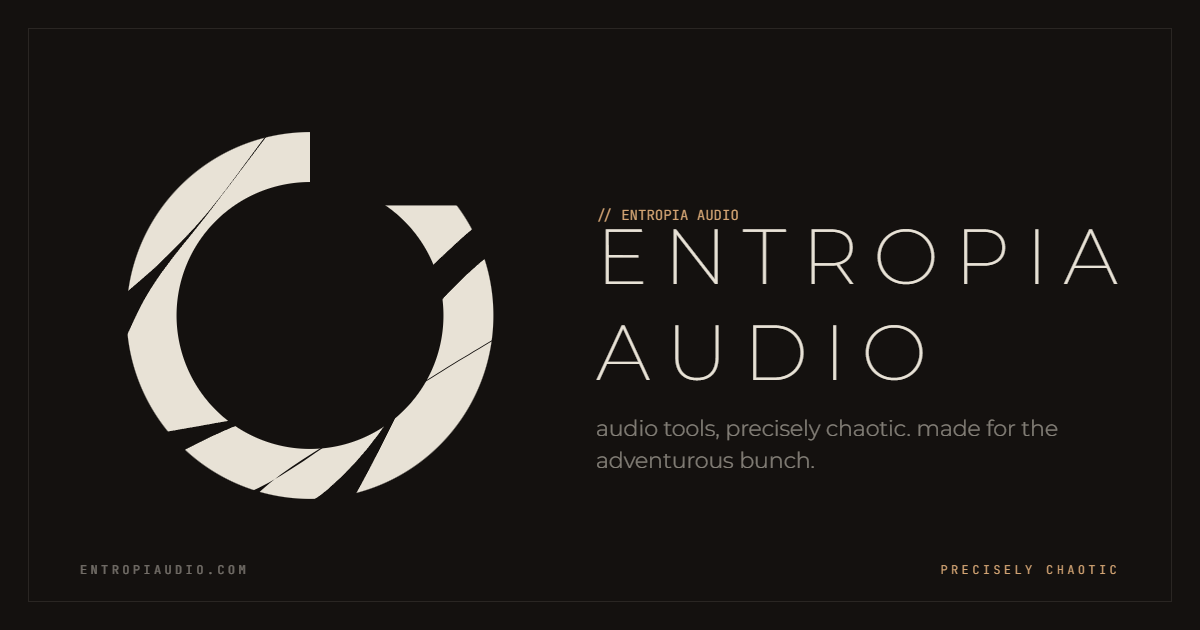
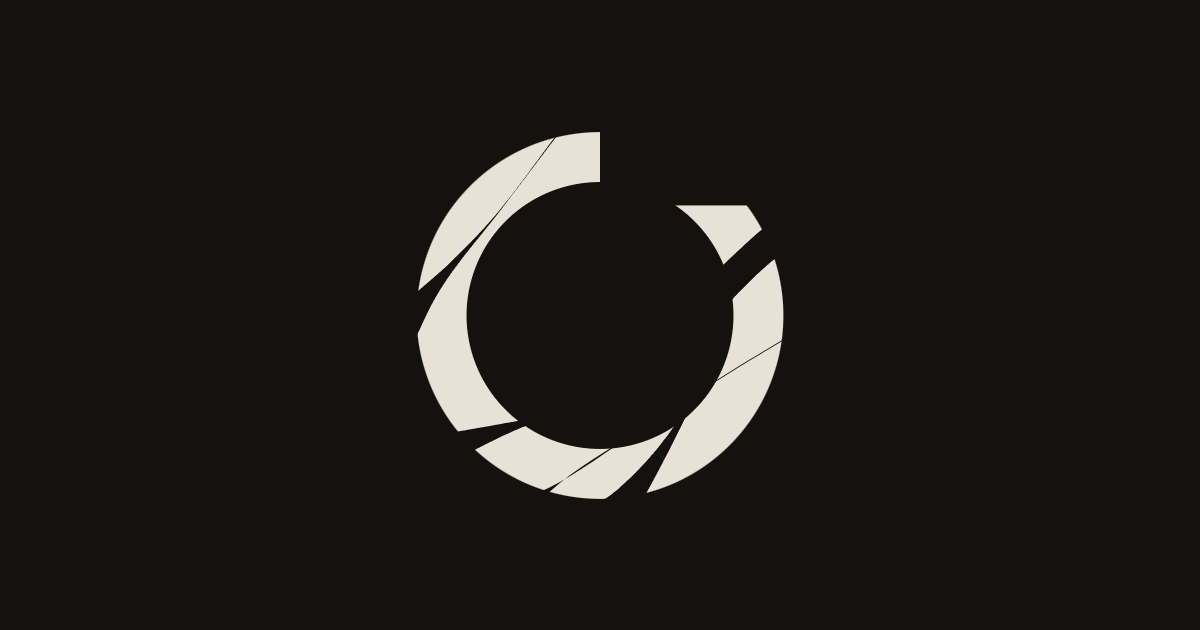
content: simplify OG card to just the centered mark
Drop the wordmark, eyebrow, tagline, and footer chrome — only the
fractured-ring mark in #E8E2D6, centered on the #14110F background.

Re-rasterized og.png from the simplified og.html template (1200x630,
36.9 KB). Meta tags in index.html still point at /og.png, so no
markup changes needed.

diff --git a/public/og.html b/public/og.html
@@ -3,120 +3,40 @@
   <head>
     <meta charset="UTF-8" />
     <title>entropia audio — og card</title>
-    <link rel="preconnect" href="https://fonts.googleapis.com" />
-    <link rel="preconnect" href="https://fonts.gstatic.com" crossorigin />
-    <link
-      href="https://fonts.googleapis.com/css2?family=Montserrat:wght@200;300;400&family=JetBrains+Mono:wght@400&display=swap"
-      rel="stylesheet"
-    />
     <style>
-      :root {
-        --bg: #14110F;
-        --whitish: #E8E2D6;
-        --accent: #D4A574;
-        --whitish-dim: rgba(232, 226, 214, 0.55);
-      }
       * { box-sizing: border-box; margin: 0; padding: 0; }
       html, body {
         width: 1200px;
         height: 630px;
-        background: var(--bg);
-        color: var(--whitish);
-        font-family: 'Montserrat', system-ui, sans-serif;
-        -webkit-font-smoothing: antialiased;
+        background: #14110F;
+        display: grid;
+        place-items: center;
         overflow: hidden;
       }
-      .card {
-        width: 1200px;
-        height: 630px;
-        position: relative;
-        display: grid;
-        grid-template-columns: 460px 1fr;
-        align-items: center;
-        padding: 64px 80px;
-        gap: 56px;
+      .mark {
+        width: 380px;
+        height: 380px;
+        color: #E8E2D6;
+        display: block;
       }
-      .frame {
-        position: absolute;
-        inset: 28px;
-        border: 1px solid rgba(232, 226, 214, 0.10);
-        pointer-events: none;
-      }
-      .mark { width: 380px; height: 380px; color: var(--whitish); justify-self: center; }
-      .content { display: flex; flex-direction: column; gap: 28px; }
-      .eyebrow {
-        font-family: 'JetBrains Mono', monospace;
-        font-size: 14px;
-        letter-spacing: 0.32em;
-        text-transform: uppercase;
-        color: var(--accent);
-      }
-      .wordmark {
-        font-family: 'Montserrat', sans-serif;
-        font-weight: 200;
-        font-size: 78px;
-        letter-spacing: 0.20em;
-        line-height: 1;
-        text-transform: uppercase;
-        color: var(--whitish);
-      }
-      .sub {
-        font-family: 'Montserrat', sans-serif;
-        font-weight: 300;
-        font-size: 22px;
-        letter-spacing: 0.04em;
-        line-height: 1.45;
-        color: var(--whitish-dim);
-        max-width: 540px;
-      }
-      .footer {
-        position: absolute;
-        left: 80px;
-        right: 80px;
-        bottom: 56px;
-        display: flex;
-        justify-content: space-between;
-        align-items: baseline;
-        font-family: 'JetBrains Mono', monospace;
-        font-size: 12px;
-        letter-spacing: 0.28em;
-        text-transform: uppercase;
-        color: rgba(232, 226, 214, 0.45);
-      }
-      .footer .right { color: var(--accent); }
     </style>
   </head>
   <body>
-    <div class="card">
-      <div class="frame"></div>
-
-      <svg class="mark" viewBox="25 67 160 160" aria-hidden="true">
-        <defs>
-          <mask id="m" maskUnits="userSpaceOnUse" x="25" y="67" width="160" height="160">
-            <rect x="25" y="67" width="160" height="160" fill="white" />
-            <circle cx="105" cy="147.2025" r="56.192581" fill="black" />
-            <rect x="177.07288" y="100.86997" width="15.444228" height="20.592251" fill="black" />
-            <rect x="105" y="60.69001" width="87.517105" height="40.179966" fill="black" />
-            <path d="m 27.107966,157.3138 c 5.520134,-11.82217 7.382086,-16.86861 15.741747,-28.63028 5.843195,-8.2211 12.564764,-15.78216 18.722568,-23.77036 8.512682,-11.043109 16.858104,-22.214149 25.287181,-33.321199 0,0 -0.354186,-0.21055 -0.354186,-0.21055 v 0 c -8.428563,11.10627 -16.31905,22.64226 -25.285741,33.318829 -6.60064,7.85934 -13.958246,15.06482 -21.338849,22.1968 -1.217043,1.17607 -22.050724,19.0991 -26.107876,22.59371 z" fill="black" />
-            <path d="m 67.06547,244.07256 c 6.15595,-10.47476 9.375446,-16.80606 21.035087,-26.29888 11.747469,-9.56443 25.231433,-16.77419 37.973093,-24.96759 46.71367,-30.03884 44.53965,-28.07898 94.04018,-57.22885 0,0 -0.34544,-0.22394 -0.34544,-0.22394 v 0 c -49.49574,29.14771 -47.33185,27.19387 -94.04131,57.23055 -12.74192,8.19376 -24.77202,17.53862 -37.973862,24.96872 -11.745975,6.61073 -25.072405,10.04392 -36.842014,16.66413 z" fill="black" />
-            <path d="m 45.579206,208.05635 c 2.397159,-1.50226 4.70051,-3.16575 7.191452,-4.50672 10.294715,-5.54214 24.844737,-11.98901 35.474869,-15.17489 10.735462,-3.21744 21.789073,-5.25751 32.683613,-7.88621 0,0 -0.33875,-0.23424 -0.33875,-0.23424 v 0 c -10.89484,2.62917 -21.736507,5.48922 -32.684481,7.88745 -18.707185,4.09796 -37.679413,6.73753 -56.446445,10.50822 z" fill="black" />
-            <path d="m 116.67987,236.06897 c 8.19222,-14.36315 16.02119,-28.94442 23.27687,-43.80528 3.71999,-7.61918 7.43056,-15.24831 10.82715,-23.01704 3.55195,-8.12426 6.67389,-16.42984 10.01087,-24.6447 0,0 -0.35934,-0.20078 -0.35934,-0.20078 v 0 c -3.33635,8.21384 -6.1838,16.64364 -10.00907,24.64151 -9.58677,20.04388 -21.51185,37.25458 -38.39754,51.75755 -2.89327,2.48502 -6.23158,4.39912 -9.34734,6.59868 z" fill="black" />
-            <path d="m 147.35044,159.05637 c 0.27902,-0.43707 0.58404,-0.85865 0.83728,-1.31111 0.66502,-1.18817 1.19775,-2.45084 1.91575,-3.60776 2.09691,-3.37878 5.77144,-8.24349 8.24169,-11.11539 3.44745,-4.00803 8.36323,-8.79676 12.07658,-12.52102 7.62639,-7.17073 15.91596,-13.68705 25.04342,-18.84963 4.71156,-2.66495 5.88341,-3.04019 10.66797,-5.13107 5.48156,-2.14767 2.86572,-1.19667 7.83293,-2.89291 0,0 -14.73334,-9.772259 -14.73334,-9.772259 v 0 c -4.05698,2.41259 -1.87776,1.13114 -6.5436,3.83459 -3.48642,2.06257 -6.30792,3.663979 -9.69406,5.973249 -3.22753,2.20105 -8.54028,6.21191 -11.45393,8.67242 -3.05666,2.58129 -9.48118,8.65312 -12.30721,11.29218 -6.22427,5.93031 -12.38043,11.90927 -18.90163,17.51654 -1.61356,1.3874 -3.21177,2.79684 -4.90132,4.0907 -1.52372,1.16696 -3.44076,2.32311 -5.13617,3.36977 z" fill="black" />
-          </mask>
-        </defs>
-        <ellipse cx="105" cy="147.2025" rx="77.22094" ry="77.220955" fill="currentColor" mask="url(#m)" />
-      </svg>
-
-      <div class="content">
-        <div class="eyebrow">// entropia audio</div>
-        <div class="wordmark">entropia<br/>audio</div>
-        <div class="sub">audio tools, precisely chaotic. made for the adventurous bunch.</div>
-      </div>
-
-      <div class="footer">
-        <span>entropiaudio.com</span>
-        <span class="right">precisely chaotic</span>
-      </div>
-    </div>
+    <svg class="mark" viewBox="25 67 160 160" aria-hidden="true">
+      <defs>
+        <mask id="m" maskUnits="userSpaceOnUse" x="25" y="67" width="160" height="160">
+          <rect x="25" y="67" width="160" height="160" fill="white" />
+          <circle cx="105" cy="147.2025" r="56.192581" fill="black" />
+          <rect x="177.07288" y="100.86997" width="15.444228" height="20.592251" fill="black" />
+          <rect x="105" y="60.69001" width="87.517105" height="40.179966" fill="black" />
+          <path d="m 27.107966,157.3138 c 5.520134,-11.82217 7.382086,-16.86861 15.741747,-28.63028 5.843195,-8.2211 12.564764,-15.78216 18.722568,-23.77036 8.512682,-11.043109 16.858104,-22.214149 25.287181,-33.321199 0,0 -0.354186,-0.21055 -0.354186,-0.21055 v 0 c -8.428563,11.10627 -16.31905,22.64226 -25.285741,33.318829 -6.60064,7.85934 -13.958246,15.06482 -21.338849,22.1968 -1.217043,1.17607 -22.050724,19.0991 -26.107876,22.59371 z" fill="black" />
+          <path d="m 67.06547,244.07256 c 6.15595,-10.47476 9.375446,-16.80606 21.035087,-26.29888 11.747469,-9.56443 25.231433,-16.77419 37.973093,-24.96759 46.71367,-30.03884 44.53965,-28.07898 94.04018,-57.22885 0,0 -0.34544,-0.22394 -0.34544,-0.22394 v 0 c -49.49574,29.14771 -47.33185,27.19387 -94.04131,57.23055 -12.74192,8.19376 -24.77202,17.53862 -37.973862,24.96872 -11.745975,6.61073 -25.072405,10.04392 -36.842014,16.66413 z" fill="black" />
+          <path d="m 45.579206,208.05635 c 2.397159,-1.50226 4.70051,-3.16575 7.191452,-4.50672 10.294715,-5.54214 24.844737,-11.98901 35.474869,-15.17489 10.735462,-3.21744 21.789073,-5.25751 32.683613,-7.88621 0,0 -0.33875,-0.23424 -0.33875,-0.23424 v 0 c -10.89484,2.62917 -21.736507,5.48922 -32.684481,7.88745 -18.707185,4.09796 -37.679413,6.73753 -56.446445,10.50822 z" fill="black" />
+          <path d="m 116.67987,236.06897 c 8.19222,-14.36315 16.02119,-28.94442 23.27687,-43.80528 3.71999,-7.61918 7.43056,-15.24831 10.82715,-23.01704 3.55195,-8.12426 6.67389,-16.42984 10.01087,-24.6447 0,0 -0.35934,-0.20078 -0.35934,-0.20078 v 0 c -3.33635,8.21384 -6.1838,16.64364 -10.00907,24.64151 -9.58677,20.04388 -21.51185,37.25458 -38.39754,51.75755 -2.89327,2.48502 -6.23158,4.39912 -9.34734,6.59868 z" fill="black" />
+          <path d="m 147.35044,159.05637 c 0.27902,-0.43707 0.58404,-0.85865 0.83728,-1.31111 0.66502,-1.18817 1.19775,-2.45084 1.91575,-3.60776 2.09691,-3.37878 5.77144,-8.24349 8.24169,-11.11539 3.44745,-4.00803 8.36323,-8.79676 12.07658,-12.52102 7.62639,-7.17073 15.91596,-13.68705 25.04342,-18.84963 4.71156,-2.66495 5.88341,-3.04019 10.66797,-5.13107 5.48156,-2.14767 2.86572,-1.19667 7.83293,-2.89291 0,0 -14.73334,-9.772259 -14.73334,-9.772259 v 0 c -4.05698,2.41259 -1.87776,1.13114 -6.5436,3.83459 -3.48642,2.06257 -6.30792,3.663979 -9.69406,5.973249 -3.22753,2.20105 -8.54028,6.21191 -11.45393,8.67242 -3.05666,2.58129 -9.48118,8.65312 -12.30721,11.29218 -6.22427,5.93031 -12.38043,11.90927 -18.90163,17.51654 -1.61356,1.3874 -3.21177,2.79684 -4.90132,4.0907 -1.52372,1.16696 -3.44076,2.32311 -5.13617,3.36977 z" fill="black" />
+        </mask>
+      </defs>
+      <ellipse cx="105" cy="147.2025" rx="77.22094" ry="77.220955" fill="currentColor" mask="url(#m)" />
+    </svg>
   </body>
 </html>
